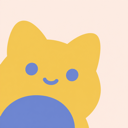
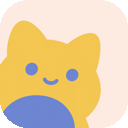
fix(ui): composer 重做（发送↔停止切换/附件/去杂按钮）+ 桌面图标 squircle
按用户反馈参考 ChatGPT/Claude 重做 composer：
1. 发送按钮 ↔ 停止按钮切换：生成中变停止方块（点停止终止+撤回 prompt 回
   输入框可编辑重发），去掉独立的终止按钮
2. 去掉截屏(monitor)/终止(circleStop)杂按钮（多余）
3. 加「+」附件按钮（图片/文件菜单，占位「即将支持」）
4. 模型选择器保留

桌面 dock 图标：原 logo 是方角 PNG（突兀），用 PIL 加 macOS squircle
圆角遮罩（~22% 半径），niebie-logo.png + icon-*.png 全部 squircle 化，
重启桌面后 dock 显示标准圆角矩形图标。

测试：capture/cancel 改直接调 client（按钮已移除），14 flutter 全绿。

diff --git a/apps/mobile/lib/src/ui/nienie_mobile_app.dart b/apps/mobile/lib/src/ui/nienie_mobile_app.dart
@@ -3,6 +3,7 @@ import 'package:flutter_svg/flutter_svg.dart';
 import 'package:lucide_icons_flutter/lucide_icons.dart';
 import '../i18n/app_strings.dart';
 import '../models/protocol_models.dart';
+import '../models/timeline_items.dart';
 import '../state/mobile_bridge_client.dart';
 import 'kelivo_workspace_drawer.dart';
 import 'pairing_panel.dart';
@@ -367,6 +368,70 @@ class _NienieMobileAppState extends State<NienieMobileApp> {
     );
   }
 
+  bool _isGenerating(MobileBridgeClient client) {
+    final active = client.activeSession;
+    if (active == null) return false;
+    return client.statusFor(active.id) == 'running' ||
+        client.timelineFor(active.id).any((i) => i is PendingResponseItem);
+  }
+
+  void _stopGeneration(MobileBridgeClient client) {
+    client.cancelActiveSession();
+    // 撤回：把上次发出的 prompt 放回输入框，便于编辑后重发
+    final items = client.timelineFor(client.activeSession?.id ?? '');
+    for (final item in items.reversed) {
+      if (item is UserPromptItem) {
+        _promptController.text = item.message;
+        break;
+      }
+    }
+    setState(() {});
+  }
+
+  void _showAttachMenu(BuildContext context, MobileBridgeClient client) {
+    showModalBottomSheet<void>(
+      context: context,
+      backgroundColor: Colors.white,
+      shape: const RoundedRectangleBorder(
+        borderRadius: BorderRadius.vertical(top: Radius.circular(20)),
+      ),
+      builder: (ctx) => SafeArea(
+        child: Column(
+          mainAxisSize: MainAxisSize.min,
+          children: [
+            const Padding(
+              padding: EdgeInsets.fromLTRB(16, 16, 16, 8),
+              child: Text('添加附件', style: TextStyle(fontSize: 16, fontWeight: FontWeight.w600)),
+            ),
+            ListTile(
+              key: const Key('btn-attach-image'),
+              leading: const Icon(LucideIcons.image, size: 20),
+              title: const Text('图片'),
+              onTap: () {
+                Navigator.of(ctx).pop();
+                ScaffoldMessenger.of(context).showSnackBar(
+                  const SnackBar(content: Text('图片附件：即将支持')),
+                );
+              },
+            ),
+            ListTile(
+              key: const Key('btn-attach-file'),
+              leading: const Icon(LucideIcons.file, size: 20),
+              title: const Text('文件'),
+              onTap: () {
+                Navigator.of(ctx).pop();
+                ScaffoldMessenger.of(context).showSnackBar(
+                  const SnackBar(content: Text('文件附件：即将支持')),
+                );
+              },
+            ),
+            const SizedBox(height: 8),
+          ],
+        ),
+      ),
+    );
+  }
+
   bool _agentSupportsModelSwitch(MobileBridgeClient client) {
     final current = client.agents
         .where((a) => a.id == (client.activeSession?.agentId ?? client.selectedAgentId))
@@ -599,119 +664,66 @@ class _NienieMobileAppState extends State<NienieMobileApp> {
 
                   const SizedBox(height: 8),
 
-                  // Lower Deck: Agent Pills + Workspace Actions + Send Circle
+// Lower Deck: 附件 + 模型选择 | 发送/停止 切换按钮
                   SizedBox(
                     height: 32,
                     child: Row(
                       children: [
-                        // Left scrollable Agent switcher pills + tools
-                        Expanded(
-                          child: SingleChildScrollView(
-                            scrollDirection: Axis.horizontal,
-                            child: Row(
-                              children: [
-                                // Model selector：显示当前模型，点击切换
-                                // （agent 选择属于会话层，在会话头部/抽屉，不在此）
-                                // 仅当当前 Agent 支持模型切换时显示
-                                if (_agentSupportsModelSwitch(client))
-                                  InkWell(
-                                    key: const Key('btn-select-model'),
-                                    borderRadius: BorderRadius.circular(999),
-                                    onTap: () => _showModelPicker(context, client),
-                                    child: Container(
-                                      padding: const EdgeInsets.symmetric(
-                                        horizontal: 10,
-                                        vertical: 5,
-                                    ),
-                                    decoration: BoxDecoration(
-                                      color: Colors.white,
-                                      borderRadius: BorderRadius.circular(999),
-                                      border: Border.all(
-                                        color: const Color(0x18000000),
-                                      ),
-                                    ),
-                                    child: Row(
-                                      mainAxisSize: MainAxisSize.min,
-                                      children: [
-                                        const Icon(
-                                          LucideIcons.cpu,
-                                          size: 13,
-                                          color: _textSecondary,
-                                        ),
-                                        const SizedBox(width: 5),
-                                        Text(
-                                          _currentModelName(client),
-                                          style: const TextStyle(
-                                            fontSize: 11.5,
-                                            fontWeight: FontWeight.w600,
-                                            color: _textPrimary,
-                                          ),
-                                        ),
-                                        const SizedBox(width: 3),
-                                        const Icon(
-                                          LucideIcons.chevronDown,
-                                          size: 12,
-                                          color: _textSecondary,
-                                        ),
-                                      ],
-                                    ),
-                                  ),
-                                ),
-                                IconButton(
-                                  key: const Key('btn-capture-screen'),
-                                  visualDensity: VisualDensity.compact,
-                                  padding: const EdgeInsets.symmetric(
-                                    horizontal: 6,
-                                  ),
-                                  constraints: const BoxConstraints(),
-                                  tooltip: 'Capture Desktop Screen',
-                                  onPressed: () => client.captureScreen('main'),
-                                  icon: const Icon(
-                                    LucideIcons.monitor,
-                                    size: 17,
-                                    color: _textSecondary,
-                                  ),
-                                ),
-                                IconButton(
-                                  key: const Key('btn-cancel-session'),
-                                  visualDensity: VisualDensity.compact,
-                                  padding: const EdgeInsets.symmetric(
-                                    horizontal: 6,
-                                  ),
-                                  constraints: const BoxConstraints(),
-                                  tooltip: 'Cancel Session',
-                                  onPressed: client.cancelActiveSession,
-                                  icon: const Icon(
-                                    LucideIcons.circleStop,
-                                    size: 17,
-                                    color: _textSecondary,
-                                  ),
-                                ),
-                              ],
+                        IconButton(
+                          key: const Key('btn-attach'),
+                          visualDensity: VisualDensity.compact,
+                          padding: const EdgeInsets.symmetric(horizontal: 6),
+                          constraints: const BoxConstraints(),
+                          tooltip: '添加附件',
+                          onPressed: () => _showAttachMenu(context, client),
+                          icon: const Icon(LucideIcons.plus, size: 18, color: _textSecondary),
+                        ),
+                        if (_agentSupportsModelSwitch(client)) ...[
+                          const SizedBox(width: 4),
+                          InkWell(
+                            key: const Key('btn-select-model'),
+                            borderRadius: BorderRadius.circular(999),
+                            onTap: () => _showModelPicker(context, client),
+                            child: Container(
+                              padding: const EdgeInsets.symmetric(horizontal: 10, vertical: 5),
+                              decoration: BoxDecoration(
+                                color: Colors.white,
+                                borderRadius: BorderRadius.circular(999),
+                                border: Border.all(color: const Color(0x18000000)),
+                              ),
+                              child: Row(
+                                mainAxisSize: MainAxisSize.min,
+                                children: [
+                                  const Icon(LucideIcons.cpu, size: 13, color: _textSecondary),
+                                  const SizedBox(width: 5),
+                                  Text(_currentModelName(client), style: const TextStyle(fontSize: 11.5, fontWeight: FontWeight.w600, color: _textPrimary)),
+                                  const SizedBox(width: 3),
+                                  const Icon(LucideIcons.chevronDown, size: 12, color: _textSecondary),
+                                ],
+                              ),
                             ),
                           ),
-                        ),
-
+                        ],
+                        const Spacer(),
                         const SizedBox(width: 6),
-
-                        // Circular Send Button (Kelivo R32 Circle)
                         SizedBox(
                           width: 32,
                           height: 32,
                           child: IconButton.filled(
                             key: const Key('btn-send-prompt'),
                             padding: EdgeInsets.zero,
-                            style: IconButton.styleFrom(
-                              backgroundColor: _textPrimary,
-                              foregroundColor: Colors.white,
-                              shape: const CircleBorder(),
-                            ),
+                            style: IconButton.styleFrom(backgroundColor: _textPrimary, foregroundColor: Colors.white, shape: const CircleBorder()),
                             onPressed: () {
-                              final text = _promptController.text;
-                              _promptController.clear();
-                              client.sendMessage(text);
+                              if (_isGenerating(client)) {
+                                _stopGeneration(client);
+                              } else {
+                                final text = _promptController.text;
+                                if (text.trim().isEmpty) return;
+                                _promptController.clear();
+                                client.sendMessage(text);
+                              }
                             },
-                            icon: const Icon(LucideIcons.arrowUp, size: 16),
+                            icon: Icon(_isGenerating(client) ? LucideIcons.square : LucideIcons.arrowUp, size: 16),
                           ),
                         ),
                       ],

diff --git a/apps/mobile/test/mobile_app_test.dart b/apps/mobile/test/mobile_app_test.dart
@@ -275,7 +275,8 @@ void main() {
       );
       expect(transport.registeredPushes.single['pushToken'], 'apns_mobile_tok_1');
 
-      await tester.tap(find.byKey(const Key('btn-capture-screen')));
+      // 截屏按钮已从 composer 移除（冗余），直接调用 client
+      await client.captureScreen('main');
       await tester.pumpAndSettle();
       await tester.drag(find.byType(ListView).last, const Offset(0, -300));
       await tester.pumpAndSettle();
@@ -303,7 +304,8 @@ void main() {
 
       expect(find.textContaining('1500 in · 420 out'), findsOneWidget);
 
-      await tester.tap(find.byKey(const Key('btn-cancel-session')));
+      // 终止按钮已合并进发送/停止切换，直接调用 client
+      await client.cancelActiveSession();
       await tester.pumpAndSettle();
       expect(transport.cancelledSessionIds.single, 'ses_alpha');
 
